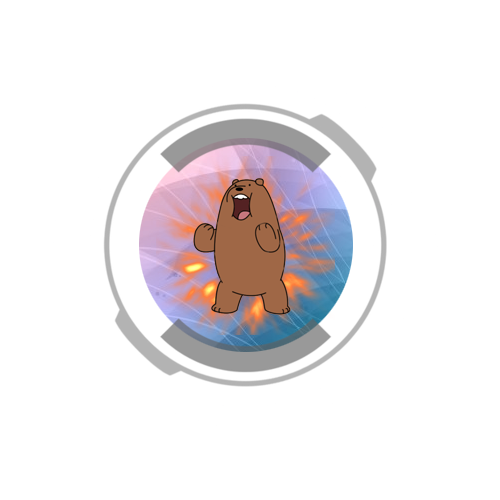
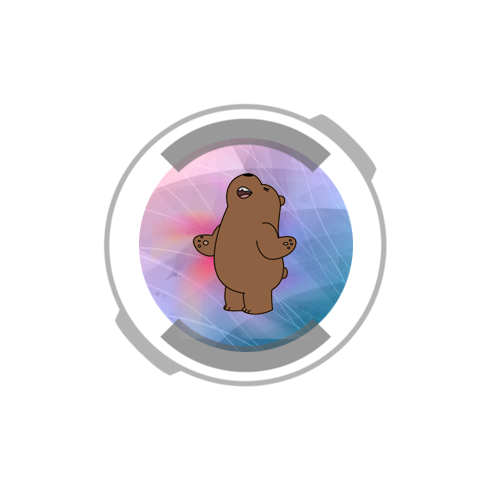
add skll button in Assest

Changed region(s): [[0.33, 0.33, 0.69, 0.69]]

diff --git a/core/src/com/mygdx/game/Assest.java b/core/src/com/mygdx/game/Assest.java
@@ -22,6 +22,10 @@ public class Assest {
     static TextureRegion grizzlyStatusBar = new TextureRegion(new Texture("assets/pic/Game/GrizzlyHPManamix.png"));
     static TextureRegion pandaStatusBar = new TextureRegion(new Texture("assets/pic/Game/PandaHPManamix.png"));
     static TextureRegion icebearStatusBar = new TextureRegion(new Texture("assets/pic/Game/IcebearHPManamix.png"));
+    static TextureRegion grizzlySkill[] = new TextureRegion[6];
+    static TextureRegion icebearSkill[] = new TextureRegion[6];
+    static TextureRegion pandaSkill[] = new TextureRegion[6];
+
     static Texture SelectBG = new Texture("assets/pic/Game/characterSelectBG.jpg");
     static Texture gameplayBG = new Texture("assets/pic/Game/gameplayBg.jpg");
     static Texture p1Pin = new Texture("assets/pic/Game/Player1.png");
@@ -49,9 +53,16 @@ public class Assest {
 
     public static void load(){
 
-        //gameplay bg
-
-
+        //skill button
+        for(int i = 0 ;i < 6 ;i++){
+            grizzlySkill[i] = new TextureRegion(new Texture("assets/pic/SkillPreview/GrizzlySkillButton"+i+".png"));
+        }
+        for(int i = 0 ;i < 6 ;i++){
+            icebearSkill[i] = new TextureRegion(new Texture("assets/pic/SkillPreview/IcebearSkillButton"+i+".png"));
+        }
+        for(int i = 0 ;i < 6 ;i++){
+            pandaSkill[i] = new TextureRegion(new Texture("assets/pic/SkillPreview/PandaSkillButton"+i+".png"));
+        }
 
         // grizzly standby animation
         TextureRegion grizzlyStandBy[] = new TextureRegion[4];
